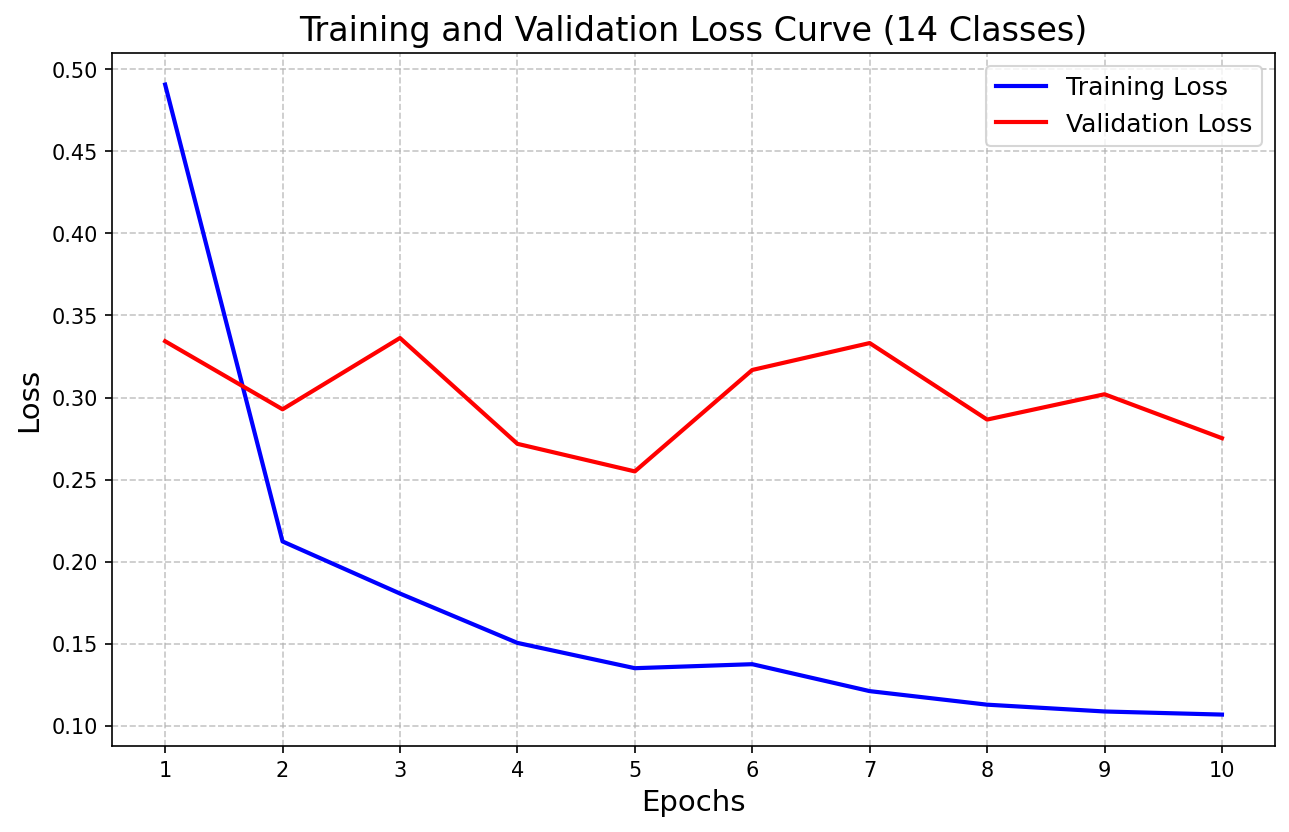
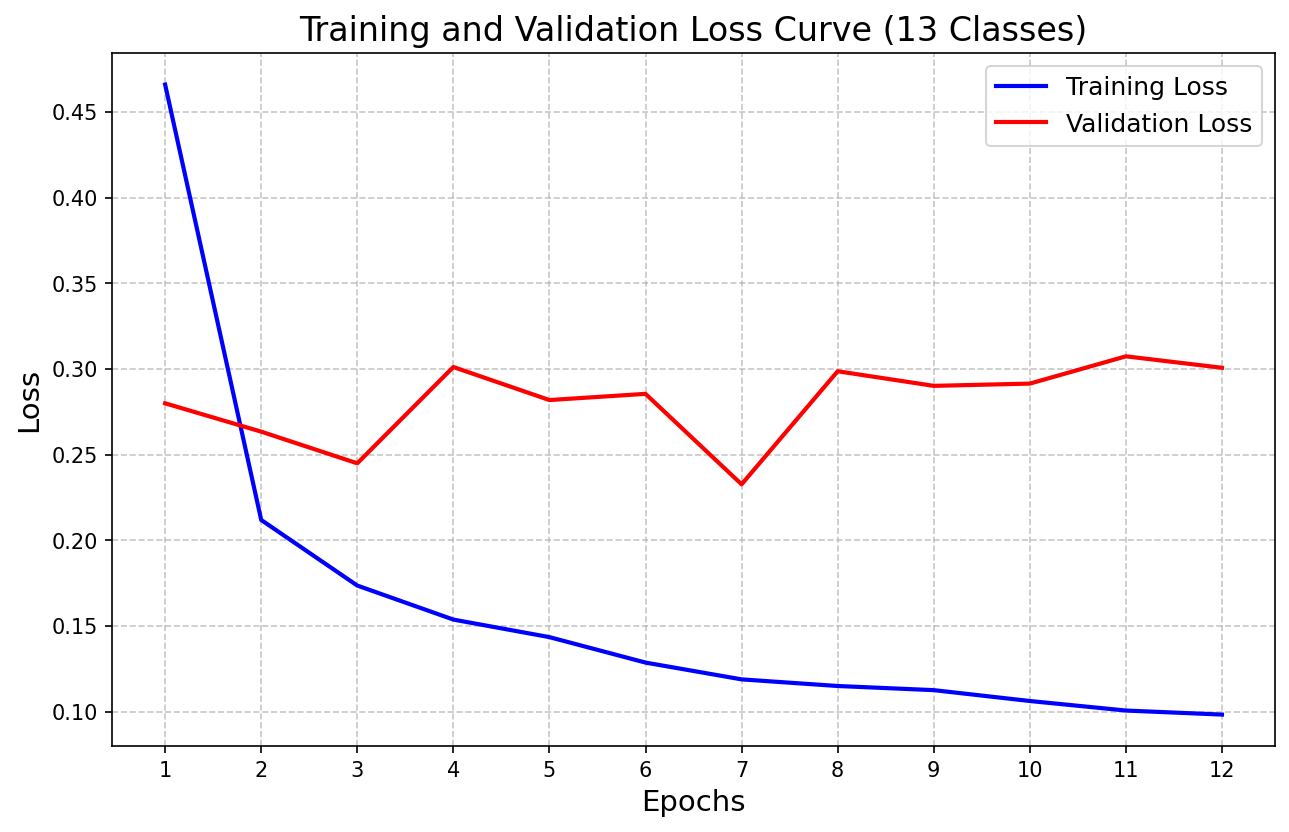
new 13 classes

diff --git a/train.py b/train.py
@@ -16,34 +16,33 @@ DATA_DIR = "./datasets/explicit_map_split"
 BATCH_SIZE = 2           
 LEARNING_RATE = 1e-4     
 NUM_EPOCHS = 20       
-NUM_CLASSES = 14    # [MODIFIED] Updated to 14 classes
+NUM_CLASSES = 13    # [MODIFIED] Updated to 13 classes
 EARLY_STOPPING_PATIENCE = 5     
     
 def get_class_weights(device):
     """
-    Highly customized class weights based on the 14-class autonomous driving scheme.
+    Highly customized class weights based on the 13-class autonomous driving scheme.
     Prioritizes drivable areas, dynamic objects, and traffic signals.
     """
     weights = torch.ones(NUM_CLASSES, dtype=torch.float32)
     
     # --- High Priority: Dynamic & Safety Critical (Weight x3 ~ x5) ---
-    weights[6] = 5.0  # Pedestrian
+    weights[5] = 5.0  # Pedestrian
     weights[4] = 3.0  # Vehicles
-    weights[5] = 4.0  # Two-Wheelers
-    weights[7] = 4.0  # TrafficLight
-    weights[8] = 4.0  # TrafficSign
+    weights[6] = 4.0  # TrafficLight
+    weights[7] = 4.0  # TrafficSign
     weights[3] = 4.0  # RoadLine
     
     # --- Medium Priority (Weight x1.0) ---
-    weights[9] = 1.0  # Pole
-    weights[13] = 1.0 # Obstacles/Misc
+    weights[8] = 1.0  # Pole
+    weights[12] = 1.0 # Obstacles/Misc
     
     # --- Low Priority: Massive Backgrounds (Weight < 0.5) ---
     weights[1] = 0.5  # Road
     weights[2] = 0.5  # Sidewalk
-    weights[10] = 0.5 # Structures
-    weights[11] = 0.5 # Nature/Terrain
-    weights[12] = 0.2 # Sky
+    weights[9] = 0.5 # Structures
+    weights[10] = 0.5 # Nature/Terrain
+    weights[11] = 0.2 # Sky
     
     return weights.to(device)
 
@@ -139,7 +138,7 @@ def main():
         if avg_val_loss < best_val_loss:
             best_val_loss = avg_val_loss
             patience_counter = 0  
-            save_path = "best_carla_model_14classes_weighted.pth"  # [MODIFIED] Save name updated
+            save_path = "best_carla_model_13classes_weighted.pth"  # [MODIFIED] Save name updated
             torch.save(model.state_dict(), save_path)
             print(f"   [!] Val loss improved. Model saved to {save_path}\n")
         else:
@@ -163,7 +162,7 @@ def main():
     plt.plot(epochs_range, history_train_loss, 'b-', label='Training Loss', linewidth=2)
     plt.plot(epochs_range, history_val_loss, 'r-', label='Validation Loss', linewidth=2)
     
-    plt.title('Training and Validation Loss Curve (14 Classes)', fontsize=16)
+    plt.title('Training and Validation Loss Curve (13 Classes)', fontsize=16)
     plt.xlabel('Epochs', fontsize=14)
     plt.ylabel('Loss', fontsize=14)
     plt.xticks(epochs_range)

diff --git a/evaluate_miou.py b/evaluate_miou.py
@@ -11,7 +11,7 @@ from model import get_carla_model
 # Configuration for Evaluation
 # ==========================================
 TEST_DIR = "./datasets/explicit_map_split/test" 
-MODEL_WEIGHTS = "best_carla_model_14classes_weighted.pth" 
+MODEL_WEIGHTS = "best_carla_model_13classes_weighted.pth" 
 NUM_CLASSES = 13
 
 # ==========================================
